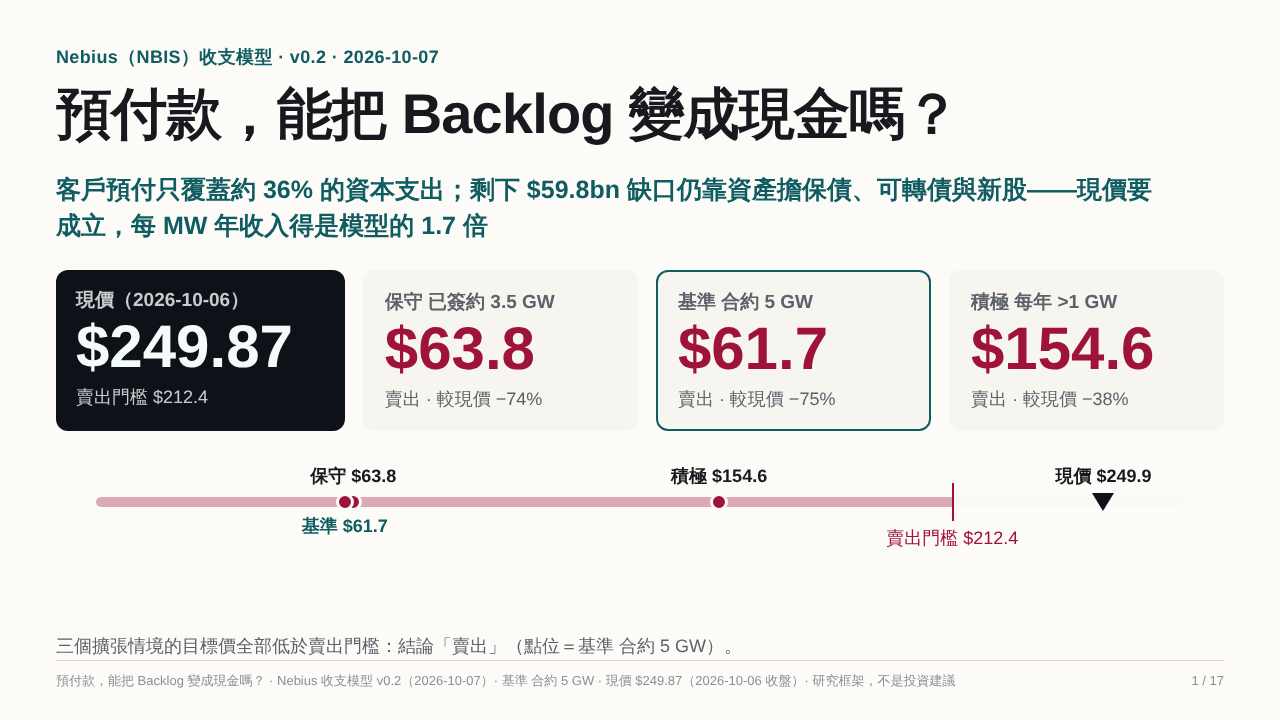
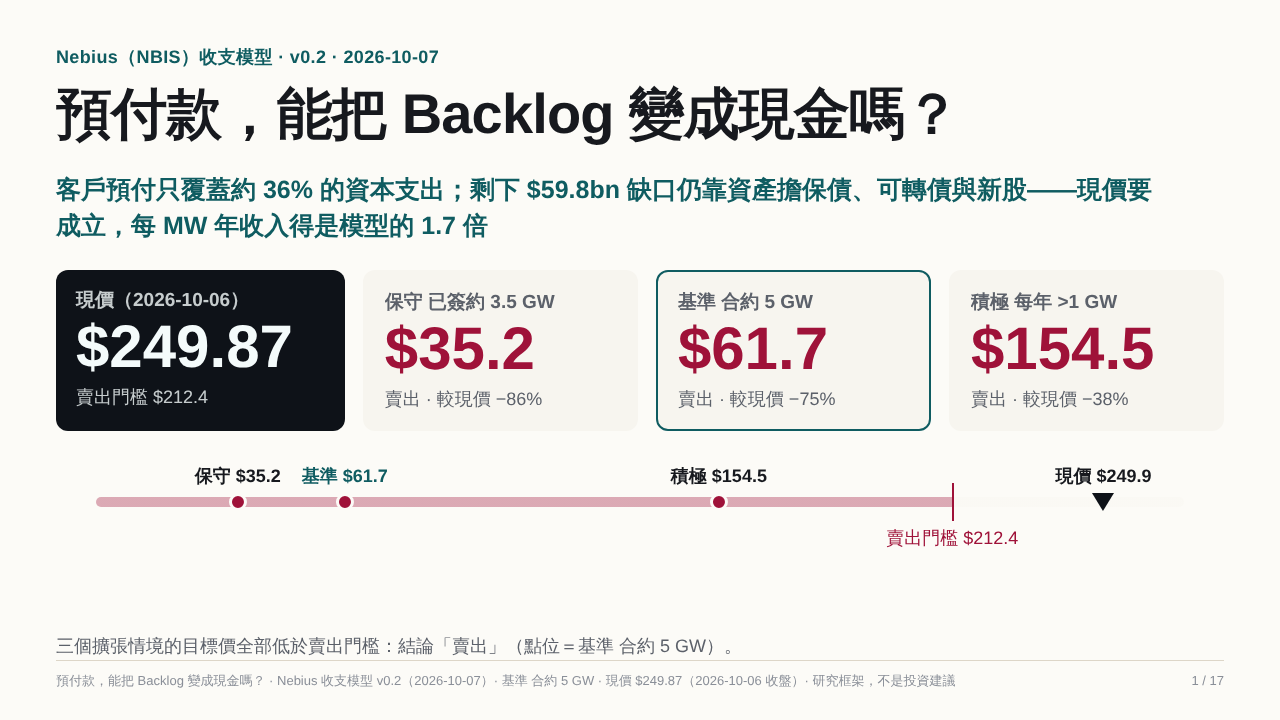
Nebius v0.1d 第 2 輪步驟 4：重拍簡報截圖與 MW 整數截圖

diff --git a/nebius/scripts/shot_deck.py b/nebius/scripts/shot_deck.py
@@ -62,6 +62,20 @@ def main(html, out):
             fn = f'{i + 1:02d}.png'
             el.screenshot(path=os.path.join(out, fn))
             res.append({'file': fn, **info})
+        # v0.2 第 2 輪：「資金模型 → 運營活動 → 收入／產能」的 MW 列（積極情境，確認 Accepted／Billable MW 為整數）
+        try:
+            click = lambda t: pg.locator('button:visible').filter(has_text=__import__('re').compile('^\\s*' + __import__('re').escape(t) + '\\s*$')).first.click(timeout=3000)
+            pg.emulate_media(media='screen'); pg.set_viewport_size({'width': 1280, 'height': 900})
+            pg.get_by_role('button', name='資金模型', exact=True).click(); pg.wait_for_timeout(500)
+            pg.locator('button:visible').filter(has_text='積極').first.click(); pg.wait_for_timeout(800)
+            click('運營活動'); pg.wait_for_timeout(400); click('收入／產能'); pg.wait_for_timeout(600)
+            row = pg.locator('tr', has_text='Accepted MW（期末主動電力）').first
+            tbl = row.locator('xpath=ancestor::table[1]')
+            tbl.scroll_into_view_if_needed(); vals = row.locator('input').evaluate_all('els => els.map(e => e.value)')
+            tbl.screenshot(path=os.path.join(out, '00_MW整數.png'))
+            print('MW 列（積極）：' + '／'.join(vals) + ('（全部整數）' if all(v.lstrip('-').isdigit() for v in vals) else '（有小數！）'))
+        except Exception as ex:
+            print('MW 列截圖失敗：', str(ex).splitlines()[0])
         b.close()
     json.dump({'slides': res, 'errors': errs}, open(os.path.join(out, 'check.json'), 'w'), ensure_ascii=False, indent=1)
     bad = 0

diff --git a/nebius/docs/reports/20261007_nebius_進度.md b/nebius/docs/reports/20261007_nebius_進度.md
@@ -2,7 +2,7 @@
 
 ## 目前狀態（每次 push 前覆寫）
 - 已完成：v0.1d 第 1 輪（步驟 0–6，PR #17 截圖審查通過）；第 2 輪步驟 1–3：MW 輸入改整數、DCF 失效口徑修正（敏感度異常）、簡報小修；dist 以同版號 v0.2 更新；verify.sh 18 項全過、`--vs-dist`（對第 1 輪 v0.2，清單 `scripts/expect/v0_2r2_vs_v0_2*.txt`）21 項全過。目標價：保守 $63.8→$35.2、基準 $61.7 不變、積極 $154.6→$154.5。
-- 下一步：第 2 輪步驟 4——`python3 nebius/scripts/shot_deck.py nebius/dist/20261007_Nebius收支模型_v0_2.html nebius/docs/reports/20261007_nebius_v0.1d_截圖` 重拍，另截「資金模型 → 輸入與假設 → 收支假設」MW 列為 `00_MW整數.png`；步驟 5——報告追加第 2 輪、PR 留言 `[Nebius 回報] v0.1d｜第 2 輪完成｜日期`。
+- 下一步：第 2 輪步驟 5——報告 `docs/reports/20261007_nebius_v0.1d.md` 追加第 2 輪段落、PR #17 留言 `[Nebius 回報] v0.1d｜第 2 輪完成｜日期`。（步驟 4 截圖已完成。）
 - 未解問題：無。
 
 ## 工作單總覽
@@ -317,3 +317,4 @@ verify.sh：全部通過（18 項）
 | R2-1 MW 整數 | 完成 | 46fbd7e | 積極情境併網速度 833.3333→833、合約上限 5,833.3333／6,666.6667→5,833／6,667、FY31 新增 833；已連網 MW 全部為整數（積極 750／1,583／2,416／3,249／4,082）；HTML 表格 MW 類欄位整數顯示、輸入框步進 1；Excel 季度實際 MW 改 `#,##0` |
 | R2-2 敏感度異常 | 完成 | 46fbd7e | 原因：主模型 DCF「常態化 FCF ≤ 0 → 失效、權重改給 EV/EBITDA 100%」的規則使利潤率更低時目標價跳升（敏感度表與主模型同一套計算，口徑一致）；修正：失效只限 WACC ≤ g，常態化 FCF ≤ 0 時終值以 0 計、DCF 照常 0 截斷並保留權重；HTML、Excel、cmp31 同步 |
 | R2-3 簡報小修 | 完成 | 46fbd7e | 第 3 頁改毛 CapEx 口徑（輸入 70% × 55% 標為輸入假設）；第 4 頁色塊加類別短名；第 5 頁 ACV 框移到軸上方不蓋刻度 |
+| R2-4 重拍截圖 | 完成 | （本 commit） | 截圖資料夾以 v0.2 第 2 輪成品覆蓋：頁首、簡報模式、17 張投影片（自查 0 問題）、`00_MW整數.png`（資金模型 → 運營活動 → 收入／產能，積極情境 Accepted MW 750／1,583／2,416／3,249／4,082）；`shot_deck.py` 加 MW 列截圖 |
